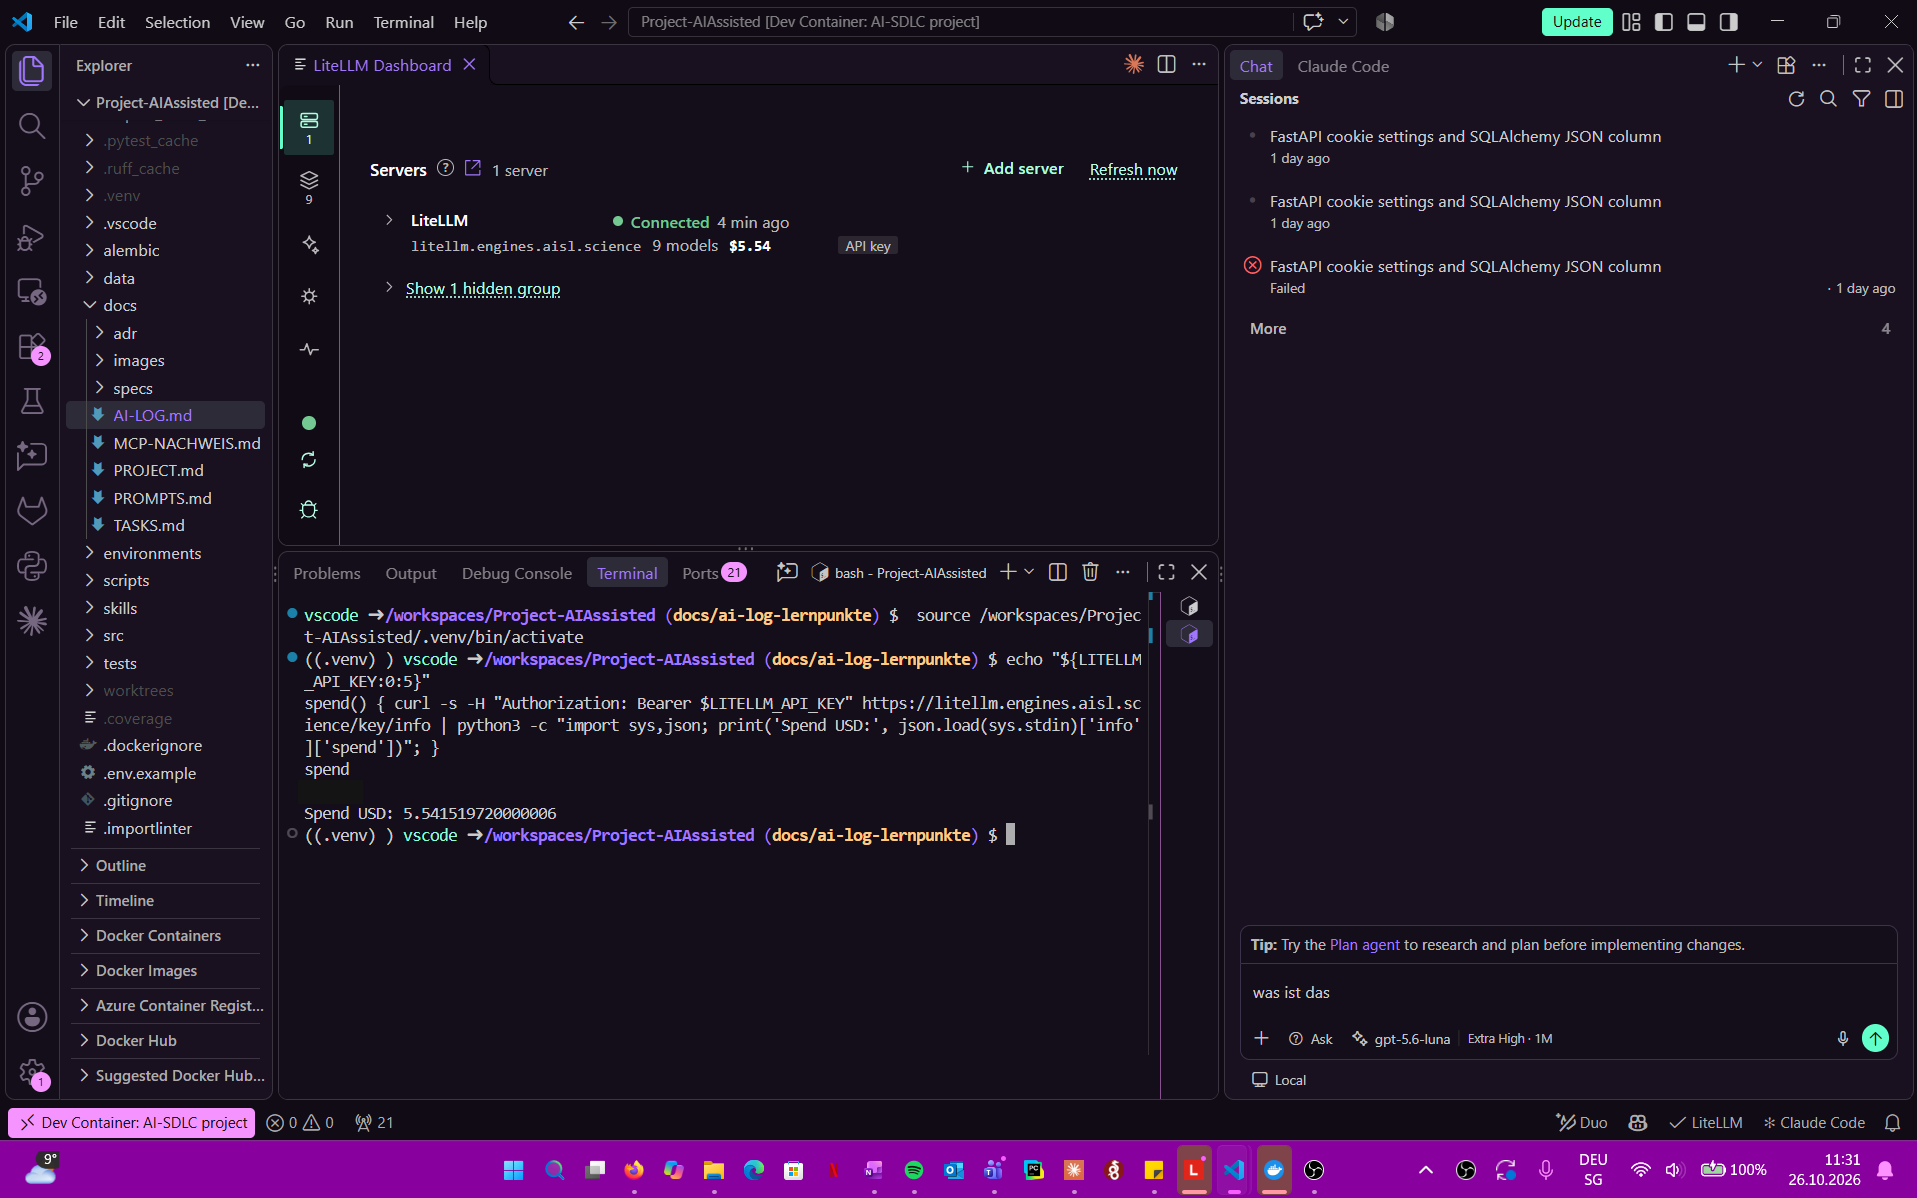
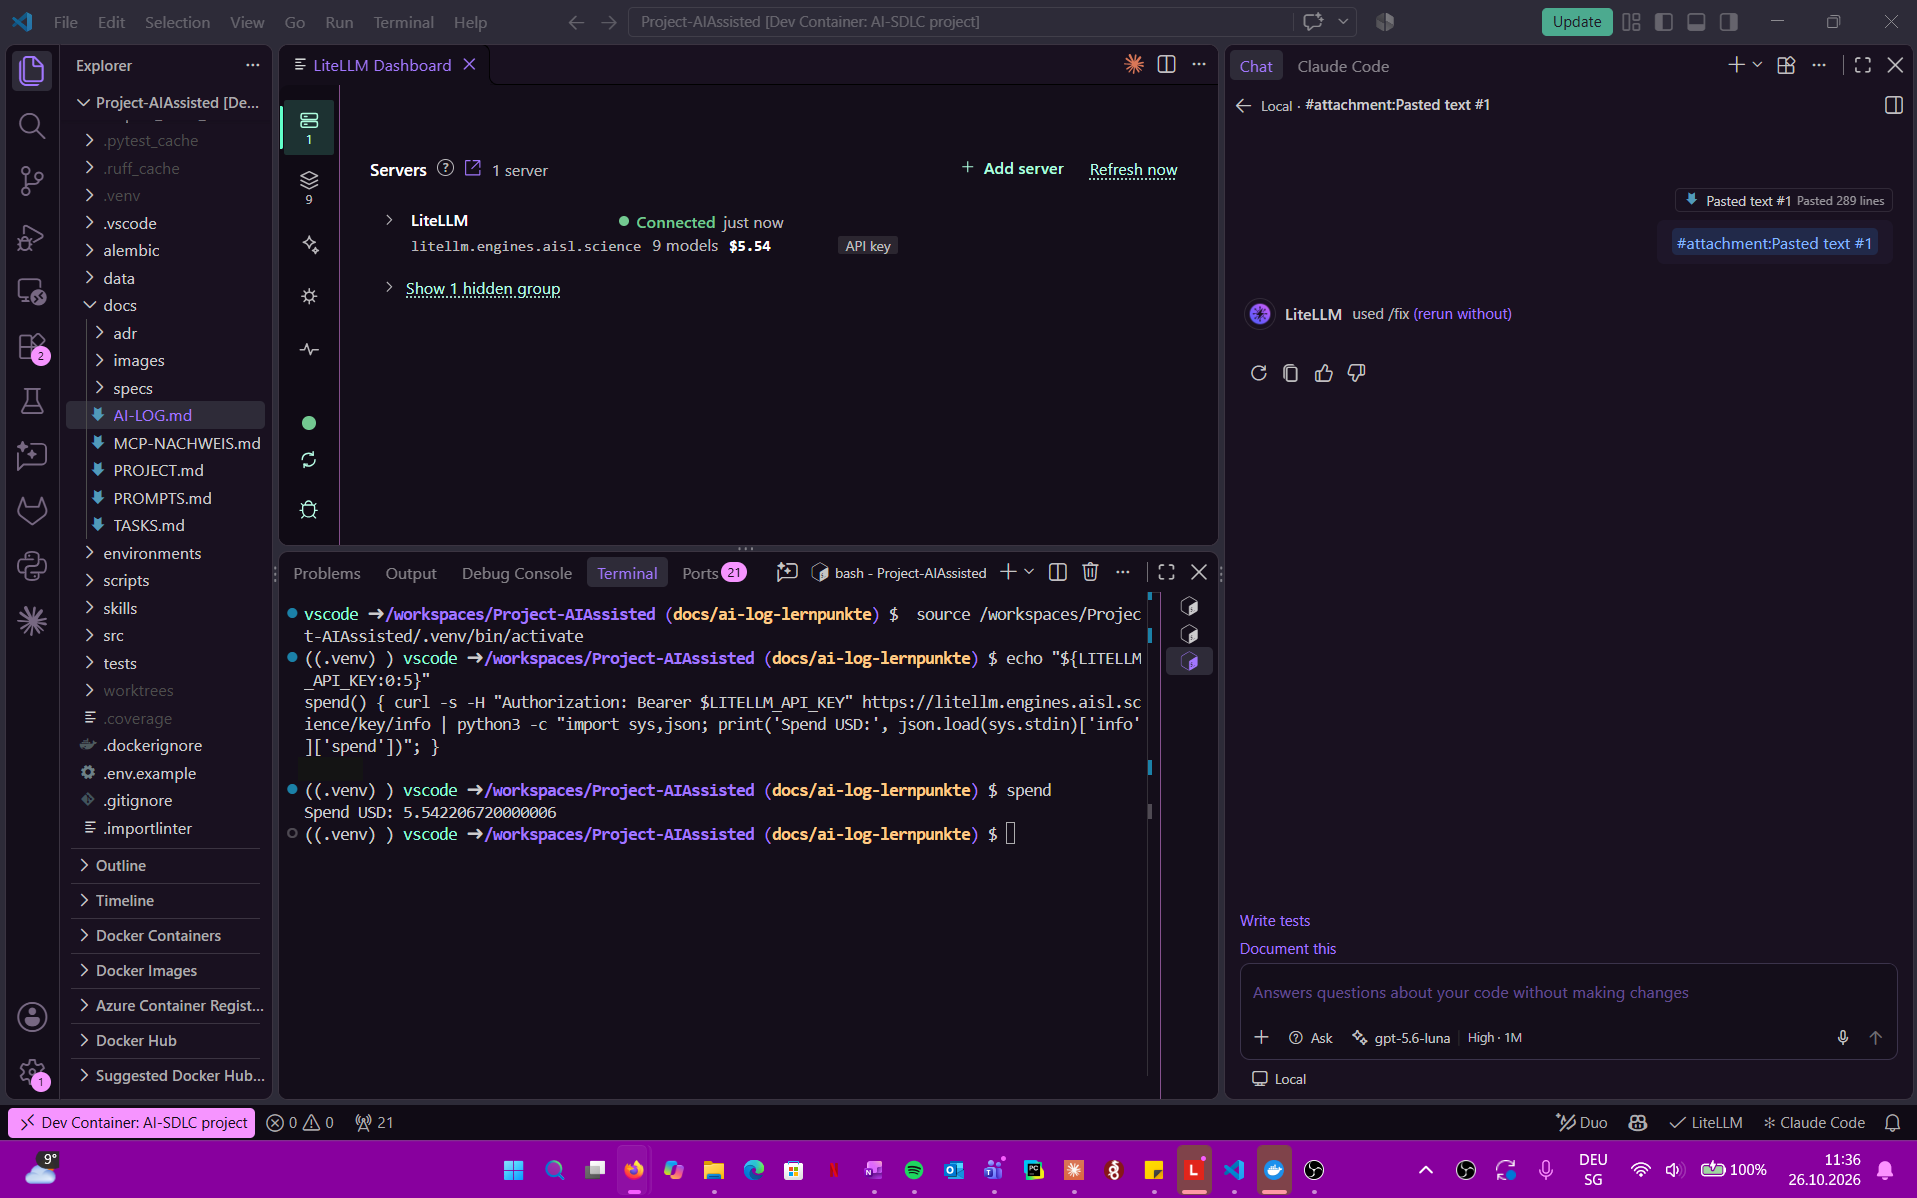
docs: Screenshot Einstellungen mit aktuellem Spend ersetzen
Claude-Session: https://claude.ai/code/session_01G6QDtVTy8UWjEbAJySs5MG

diff --git a/docs/MODELLVERGLEICH.md b/docs/MODELLVERGLEICH.md
@@ -5,12 +5,12 @@ begründen (Qualität, Zeit, Kosten).
 
 ## Einstellungen (Stand 26.10.2026)
 
-![Einstellungen: Copilot Chat im Modus Ask mit gpt-5.6-luna und Extra High, LiteLLM-Spend vor Lauf A im Terminal](images/modellvergleich-1-einstellungen.png)
+![Einstellungen: Copilot Chat im Modus Ask mit gpt-5.6-luna und High, LiteLLM-Spend vor Lauf A im Terminal](images/modellvergleich-1-einstellungen.png)
 
 | Punkt | Festlegung |
 |---|---|
 | Werkzeug | VS Code, GitHub Copilot Chat, Modus **Ask** (liest nur, ändert keine Dateien) |
-| Modell A | `gpt-5.6-luna` über LiteLLM (`litellm.engines.aisl.science`), Denkstufe **Extra High** |
+| Modell A | `gpt-5.6-luna` über LiteLLM (`litellm.engines.aisl.science`), Denkstufe **High** |
 | Modell B | folgt (gleiche Denkstufe wie Modell A) |
 | Kontext | Kein `#codebase`, keine angehängte Datei, keine MCP-Werkzeuge; nur der Prompt mit eingefügtem Code |
 | Chat | Für jedes Modell ein neuer Chat |
@@ -18,7 +18,7 @@ begründen (Qualität, Zeit, Kosten).
 | Zeit | Stoppuhr ab Abschicken bis Antwort fertig |
 | Kosten | Spend des LiteLLM-Keys vor und nach jedem Lauf über `GET /key/info` (Terminal, Funktion `spend`); das Dashboard zeigt nur 2 Nachkommastellen |
 
-Spend vor Lauf A: **5.541519720 USD** (Terminal im Screenshot, Key-Anfang geschwärzt).
+Spend vor Lauf A: **5.542206720 USD** (Terminal im Screenshot, Key-Anfang geschwärzt).
 
 ## Bekannte Fehler im geprüften Code (Lösungsschlüssel)
 
